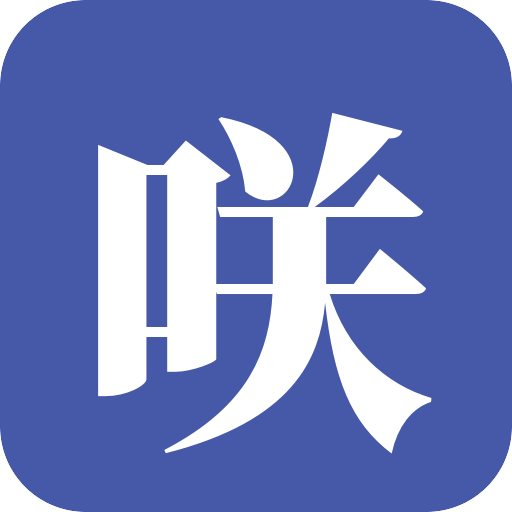
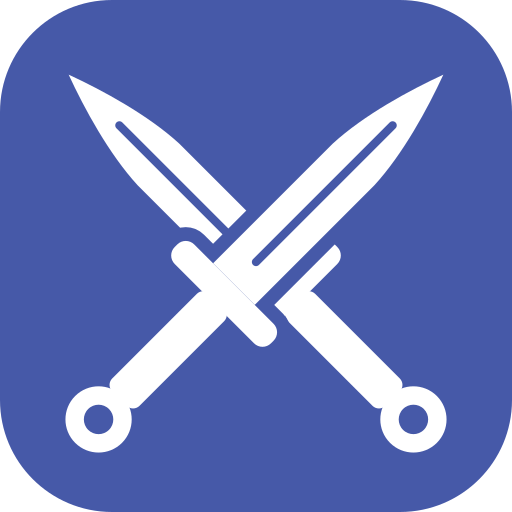
icono nuevo: dos cuchillos cruzados en vez del kanji
Los de Sakuya Izayoi. El SVG queda en docs/logo/sakuya.svg; de ahí salen el logo, los iconos de la app y el favicon.

diff --git a/CHANGELOG.md b/CHANGELOG.md
@@ -7,6 +7,6 @@ Lo que cambia entre versiones, en corto. Las razones largas viven en `docs/decis
 - **Sakuya arranca.** Caja, inventario, administración, ajustes y revisión como núcleo; compras, almacenes y conteos como módulos. Interfaz en inglés, español y alemán.
 - Los conteos escanean piezas por su código y lo que va por kilo, litro o metro se teclea.
 - Roles de fábrica más cortos: la caja ya no devuelve dinero ni recibe mercancía; para eso están el supervisor y el almacenista.
-- Paleta azul y logo 咲.
+- Paleta azul y logo de dos cuchillos cruzados.
 - Interfaz nueva: cinta simplificada (pestañas con rayita y una fila de comandos), tarjetas, tablas, formularios y botones; cifras con dígitos de ancho fijo.
 - **El Lisp de Sakuya** y su primer gancho: el tablero de Inicio es un programa que se edita en Ajustes › Opciones avanzadas, con vista previa y versiones.
